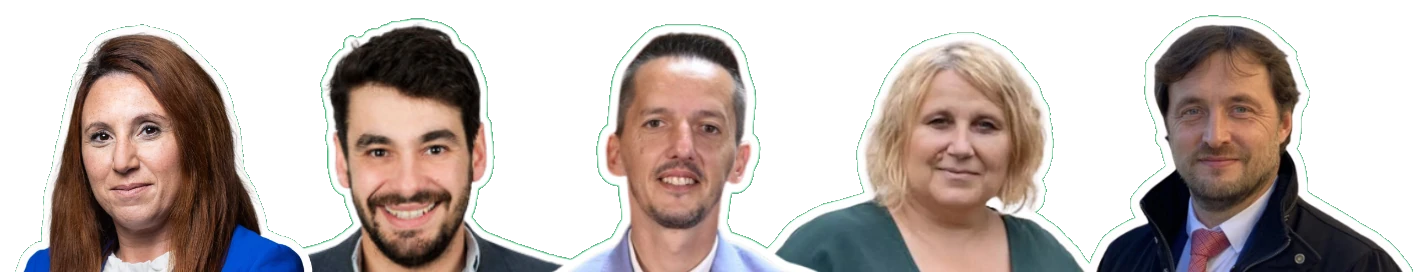
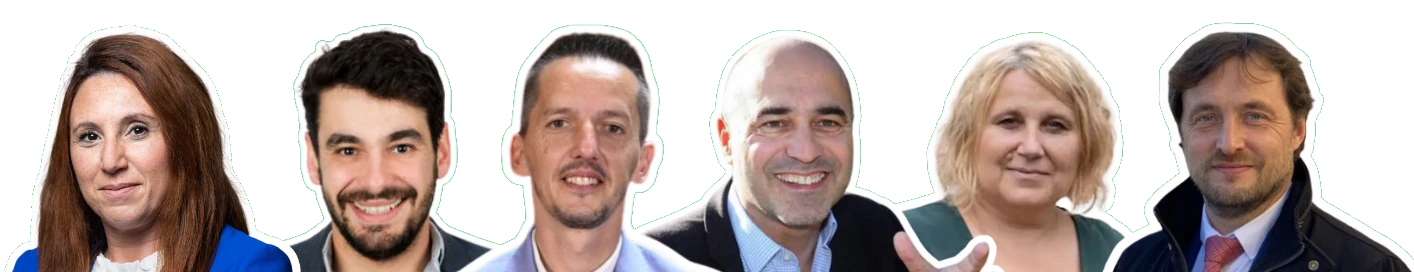
ajout de dernieres images du programme

diff --git a/pages/fronde-populaire/index.tsx b/pages/fronde-populaire/index.tsx
@@ -295,6 +295,22 @@ const FrondePopulaire: React.FC = () => {
                 </p>
               </div>
             </div>
+            <div className={styles.ateliers}>
+              <a
+                    href="https://maps.app.goo.gl/5ZUaMeRajNbv7u8e6"
+                    target="_blank"
+                    rel="noopener noreferrer"
+              >
+                <figure>
+                  <Image
+                    src="/fronde/trouver-macondo.webp"
+                    width="1080"
+                    height="1080"
+                    alt="Carte pour rejoindre Macondo à Montarnaud"
+                  />
+                </figure>
+              </a>
+            </div>
             <a
               href="https://www.helloasso.com/associations/le-quartier-genereux/evenements/fronde-populaire"
               className={styles.btn}
@@ -320,24 +336,25 @@ const FrondePopulaire: React.FC = () => {
                 <br /> 9<sup>ème</sup> circo
               </div>
               <div>
-                {" "}
                 Gabriel Blasco,
-                <br /> 7ème circo
+                <br /> 7<sup>ème</sup> circo
               </div>
               <div>
-                {" "}
                 Sylvain Carrière,
-                <br /> 8ème circo
+                <br /> 8<sup>ème</sup> circo
+              </div>
+              <div>
+                Jean-Louis Roumegas,
+                <br /> 1<sup>ère</sup> circo
               </div>
               <div>
                 Magali Crozier,
-                <br /> 6ème circo
+                <br /> 6<sup>ème</sup> circo
               </div>
               <div>
                 {" "}
                 Sébastien Rome,
-                <br />
-                4ème circo
+                <br />4<sup>ème</sup> circo
               </div>
             </div>
             <Image

diff --git a/pages/fronde-populaire/fronde.module.css b/pages/fronde-populaire/fronde.module.css
@@ -302,7 +302,8 @@ b.btn:visited {
 }
 
 .orga {
-  margin-top: 32px;
+  margin: 32px auto 0;
+  max-width: 932px;
   color: #36478f;
   display: flex;
   align-items: center;
